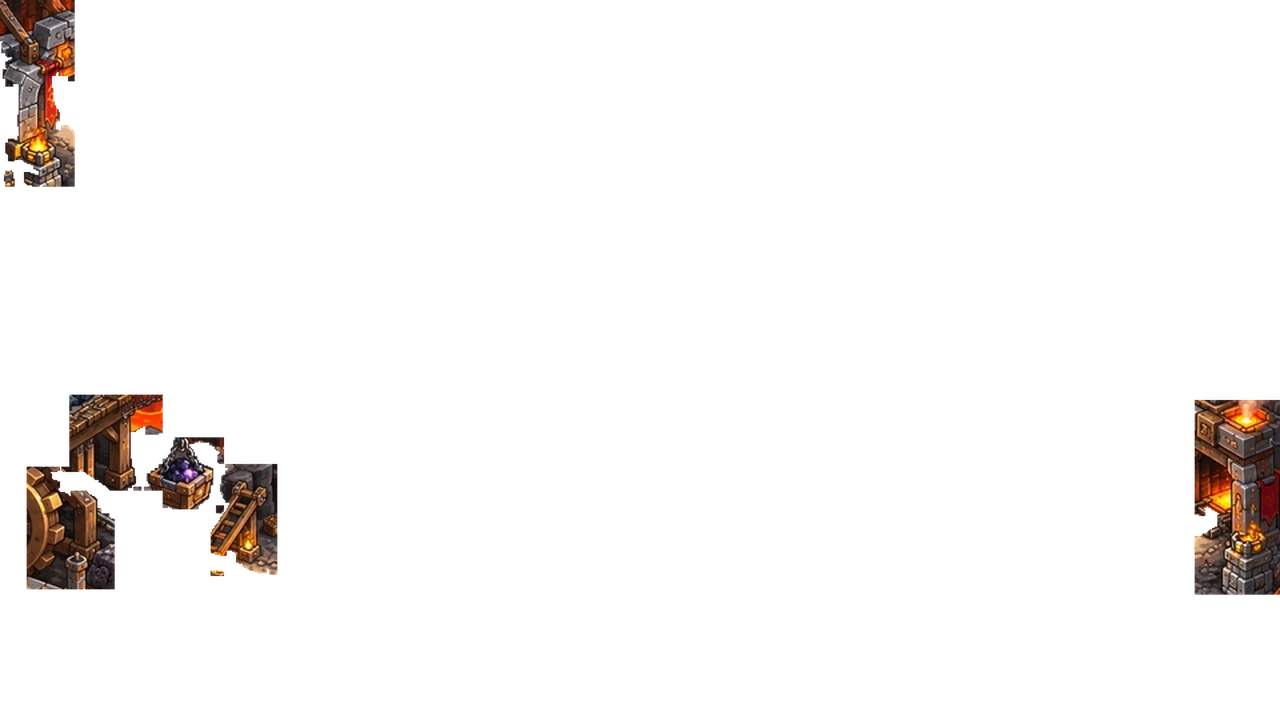
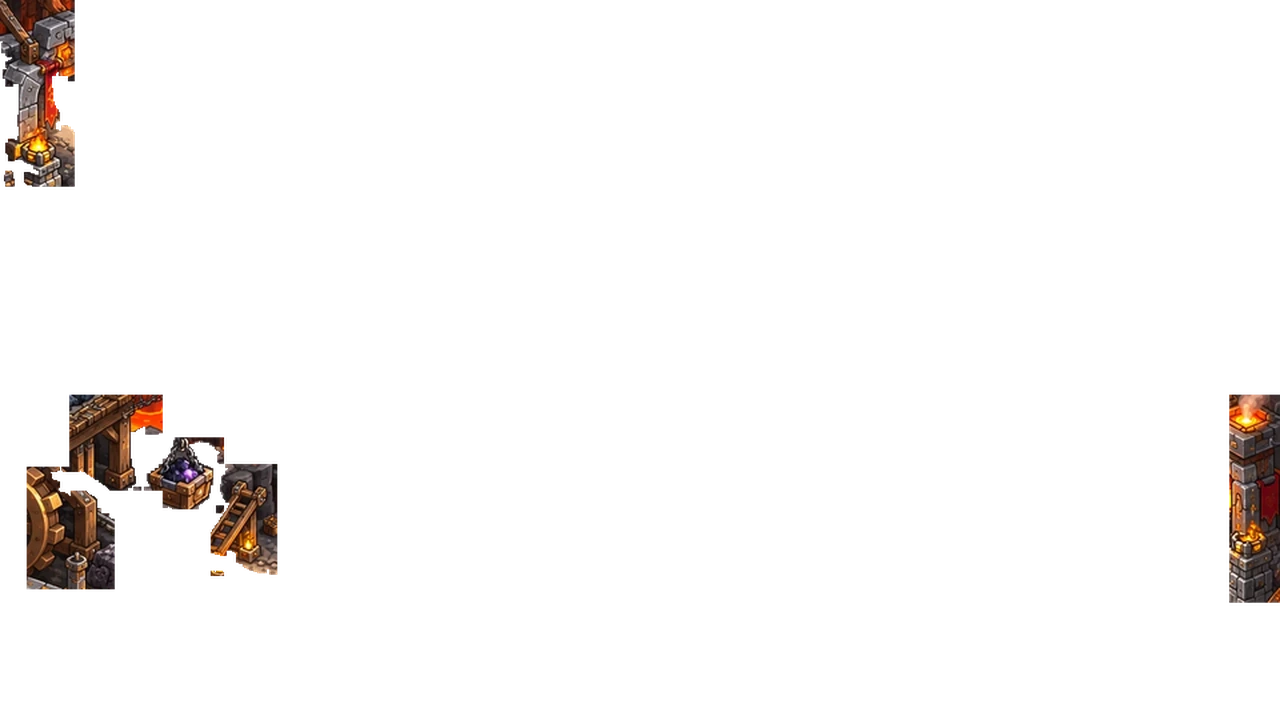
fix(td): creeps vanished before they reached the eastern gate
The box drawn round the forge's eastern arch took the gateway and the ground
in front of it along with the stones, so the layer held a wall across the
road: a creep leaving that way went out sixty units before the edge of the
board, in the open, with nothing visible to have gone behind.

The box is the near column now, and only that. The gateway and its threshold
stay in the background where they belong, so the road is walked in full and
the creep passes behind the column at the last moment, as it should.

A box for this layer has to hug what stands in front. Anything else it takes
is invisible where it lands on scenery — the layer is cut from the map and
painted back in place — but across the ROAD it is a wall, and that is the one
place the cut has to be right.

Changed region(s): [[0.9062, 0.55, 1.0, 0.8556]]

diff --git a/src/components/td/maps.ts b/src/components/td/maps.ts
@@ -203,7 +203,7 @@ export const MAPS: Record<string, MapDef> = {
     props: "forge.props.webp",
     pieces: [
       { x: 0, y: 0, w: 56, h: 140, base: 139 },
-      { x: 896, y: 300, w: 64, h: 146, base: 445 },
+      { x: 922, y: 296, w: 38, h: 156, base: 451 },
       { x: 20, y: 350, w: 66, h: 92, base: 441 },
       { x: 52, y: 296, w: 70, h: 72, base: 367 },
       { x: 122, y: 328, w: 46, h: 54, base: 381 },
